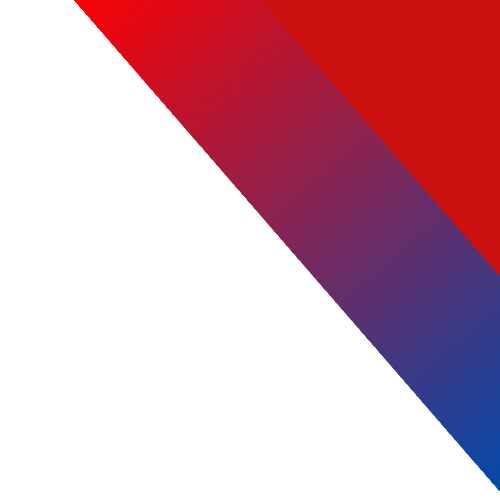
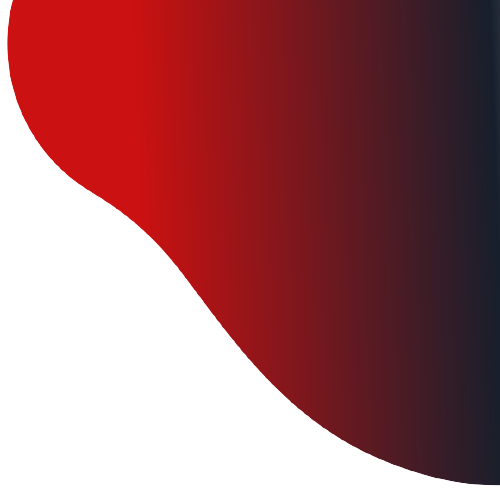
about section pt1

diff --git a/src/App.css b/src/App.css
@@ -88,9 +88,9 @@
     align-items: flex-start;
   }
   .primary-heading {
-    font-size: clamp(2rem, 4vw, 4rem);
+    font-size: clamp(1rem, 3.6vw, 4rem);
     color: #4c4c4c;
-    line-height: 4.5rem;
+    line-height: 3.5rem;
     max-width: 600px;
   }
   .primary-text {
@@ -119,7 +119,60 @@
     font-size: 1.5rem;
   }
   .secondary-button:hover {
-    background-color: #004AAD;
+    background-color: #171F2C;
+  }
+  .about-section-container {
+    margin-top: 5rem;
+    position: relative;
+    display: flex;
+    align-items: center;
+    justify-content: space-between;
+  }
+  .about-background-image-container {
+    position: absolute;
+    left: -150px;
+    z-index: -2;
+  }
+  .about-section-image-container {
+    flex: 0.9;
+    margin-right: 2rem;
+  }
+  .img-youtube-thumbnail{
+    border-radius: 5%;
+  }
+  .about-section-text-container {
+    flex: 1;
+    justify-content: center;
+    display: flex;
+    flex-direction: column;
+  }
+  .primary-subheading {
+    font-weight: 700;
+    color: #CB1111;
+    font-size: 1.15rem;
+  }
+  .about-buttons-container {
+    margin-top: 2rem;
+    display: flex;
+  }
+  .watch-video-button {
+    margin-left: 2rem;
+    background-color: transparent;
+    outline: none;
+    border: none;
+    border-radius: 5rem;
+    font-size: 1.1rem;
+    cursor: pointer;
+    font-weight: 600;
+    color: #484848;
+    transition: 0.2s;
+    display: flex;
+    align-items: center;
+    justify-content: center;
+  }
+  .watch-video-button svg {
+    font-size: 3rem;
+    margin-right: 1rem;
   }
 
 
@@ -165,6 +218,7 @@
     .primary-heading {
       text-align: center;
       max-width: 90%;
+      font-size: clamp(2.5rem, 3vw, 4rem);
       line-height: 3rem;
     }
     .primary-text {
@@ -183,5 +237,20 @@
       cursor: pointer;
     }
   }
-
-  
+  @media (max-width: 600px) {
+    .home-bannerImage-container,
+    .about-background-image-container {
+      display: none;
+    }
+    .primary-heading {
+      text-align: center;
+      max-width: 90%;
+      font-size: clamp(2rem, 3vw, 4rem);
+      line-height: 2.5rem;
+    }
+    .about-section-image-container {
+      flex: 0;
+      margin-right: 1rem;
+      margin-left: 1rem;
+    }
+  }

diff --git a/src/Components/About.js b/src/Components/About.js
@@ -1,0 +1,37 @@
+import React from "react";
+import AboutBackground from "../Assets/about-background.png";
+import AboutBackgroundImage from "../Assets/about-background-image.png";
+import { BsFillPlayCircleFill } from "react-icons/bs";
+
+const About = () => {
+  return (
+    <div className="about-section-container">
+      <div className="about-background-image-container">
+        <img src={AboutBackground} alt="" />
+      </div>
+      <div className="about-section-image-container">
+        <img className="img-youtube-thumbnail" src={AboutBackgroundImage} alt="" />
+      </div>
+      <div className="about-section-text-container">
+        <p className="primary-subheading">Sobre</p>
+        <h1 className="primary-heading">
+          Confira o canal da CellCarHome no YouTube
+        </h1>
+        <p className="primary-text">
+          Neste vídeo, você vai conferir os melhores carros de 2023. A melhor parte é que todos eles estão a venda na CellCarHome!
+        </p>
+        <p className="primary-text">
+            Quer ficar por dentro dos produtos da nossa loja? Nos acompanhe no YouTube e não perca nenhuma novidade!
+        </p>
+        <div className="about-buttons-container">
+          <button className="secondary-button">Saiba mais</button>
+          <button className="watch-video-button">
+            <BsFillPlayCircleFill /> Confira
+          </button>
+        </div>
+      </div>
+    </div>
+  );
+};
+
+export default About;

diff --git a/src/App.js b/src/App.js
@@ -1,11 +1,13 @@
 
 import './App.css';
 import Home from './Components/Home';
+import About from './Components/About';
 
 function App() {
   return (
     <div className="App">
       <Home/>
+      <About />
     </div>
   )
 };
